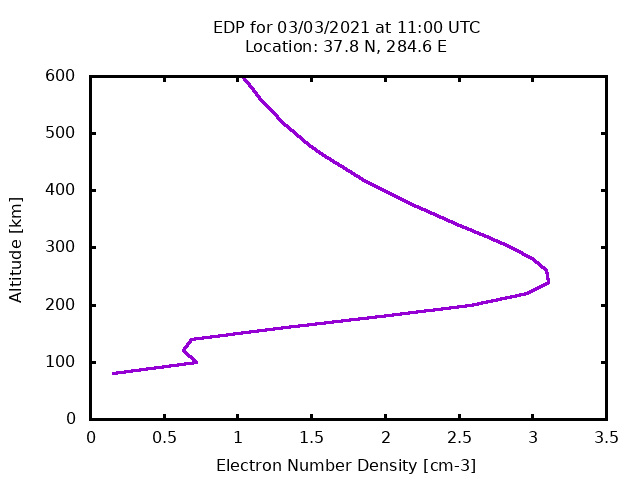
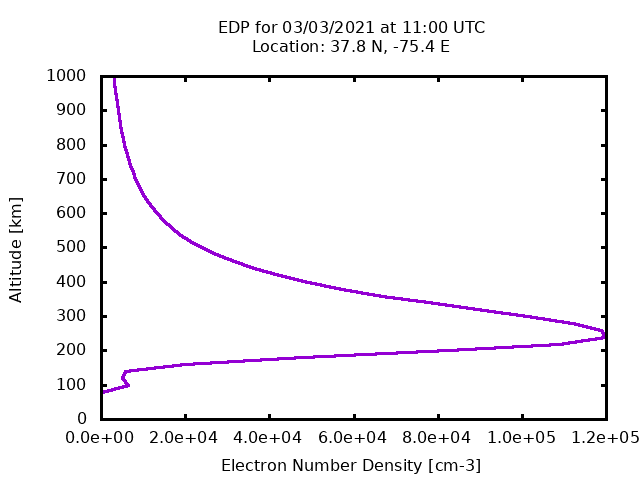
update tests

diff --git a/src/iri_2016.c b/src/iri_2016.c
@@ -79,7 +79,7 @@ int main(int argc, char ** argv)
     hour += 25.; /*IRI assumes that it is local time unless this is >= 25.*/
 
     float altitude_lower = get_argument(parser, "-z", buffer) ? atof(buffer) : 80.;
-    float altitude_upper = get_argument(parser, "-Z", buffer) ? atof(buffer) : 600.;
+    float altitude_upper = get_argument(parser, "-Z", buffer) ? atof(buffer) : 1000.;
     float daltitude = get_argument(parser, "-dz", buffer) ? atof(buffer) : 20.;
     int output_type = get_argument(parser, "-p", buffer) ? 1 : 0;
 
@@ -101,6 +101,24 @@ int main(int argc, char ** argv)
     {
         options[off_switch_indices[i] - 1] = 0;
     }
+
+    /*Right out the options used to a log file.*/
+    char * log_name = "iri_2016.log";
+    FILE * log = fopen(log_name, "w");
+    if (log == NULL)
+    {
+        fprintf(stderr, "Error: opening %s failed.\n", log_name);
+        return EXIT_FAILURE;
+    }
+    fprintf(log, "Latitude: %e\n", latitude_north);
+    fprintf(log, "Longitude: %e\n", longitude_east);
+    fprintf(log, "year: %d\n", year);
+    fprintf(log, "date: %d\n", date);
+    fprintf(log, "hour: %e\n", hour);
+    fprintf(log, "Lowest altitude: %e\n", altitude_lower);
+    fprintf(log, "Highest altitude: %e\n", altitude_upper);
+    fprintf(log, "Altitude step: %e\n", daltitude);
+    fprintf(log, "\nAltitude,Electron density\n");
 
      /*Call the fortran routines.*/
     iri_main(options, coordinate_system, latitude_north,
@@ -141,6 +159,7 @@ int main(int argc, char ** argv)
     }
     {
         fprintf(pipe, "set xlabel \"Electron Number Density [cm-3]\" \n");
+        fprintf(pipe, "set format x \"%%1.1e\" \n");
     }
     fprintf(pipe, "set ylabel \"Altitude [km]\" \n");
     fprintf(pipe, "set key noautotitle \n");
@@ -159,10 +178,12 @@ int main(int argc, char ** argv)
         if (output_type)
         {
             electron_density = sqrtf(output[i*20])*to_MHz; /*[MHz].*/
+            fprintf(log, "%e,%e\n", altitude, electron_density);
         }
         else
         {
             electron_density = output[i*20]*1.e-6; /*[cm-3].*/
+            fprintf(log, "%e,%d\n", altitude, (int)(electron_density + 0.5));
         }
         fprintf(pipe, "%e %e\n", electron_density, altitude);
     }
@@ -176,5 +197,7 @@ int main(int argc, char ** argv)
         return EXIT_FAILURE;
     }
 
+    /*Close the log file.*/
+    fclose(log);
     return EXIT_SUCCESS;
 }
